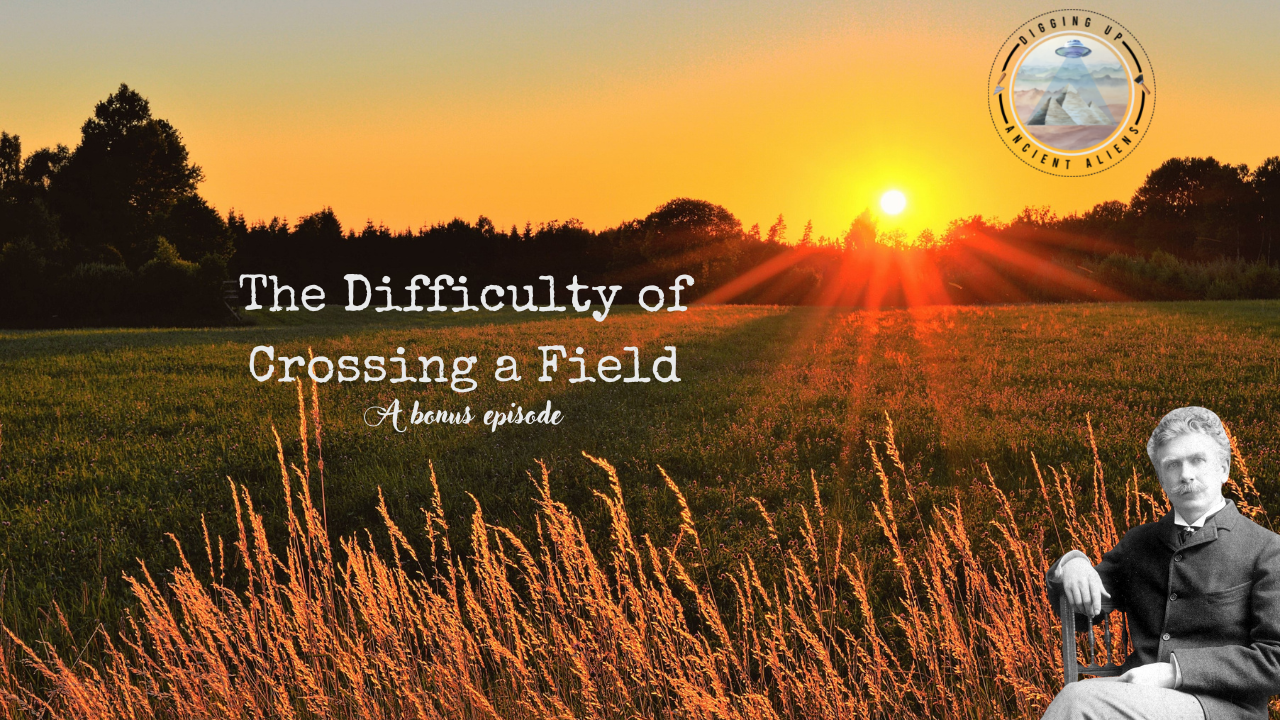
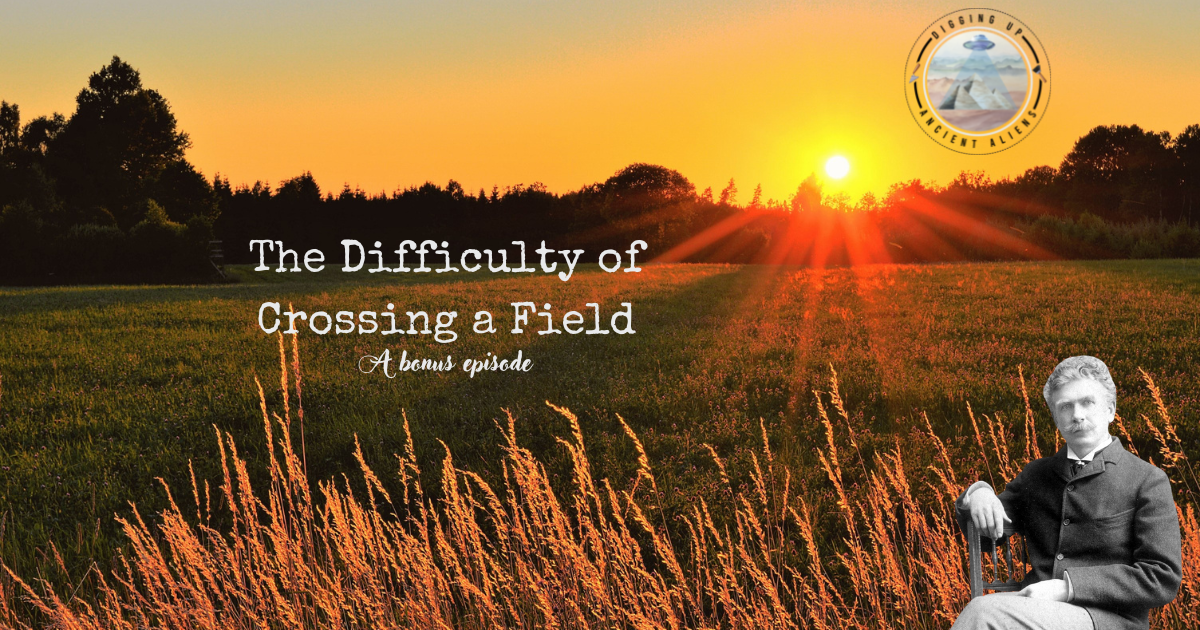
fixing og issues

diff --git a/difficultyofcriossingafield.html b/difficultyofcriossingafield.html
@@ -67,6 +67,9 @@
       property="og:image"
       content="https://diggingupancientaliens.com/img/bierce-bonus.png"
     />
+    <meta property="og:image:width" content="1200" />
+    <meta property="og:image:height" content="630" />
+    <meta property="og:image:type" content="image/png" />
 
     <meta name="twitter:card" content="summary_large_image" />
     <meta name="twitter:title" content="The Difficulty of Crossing a Field" />
